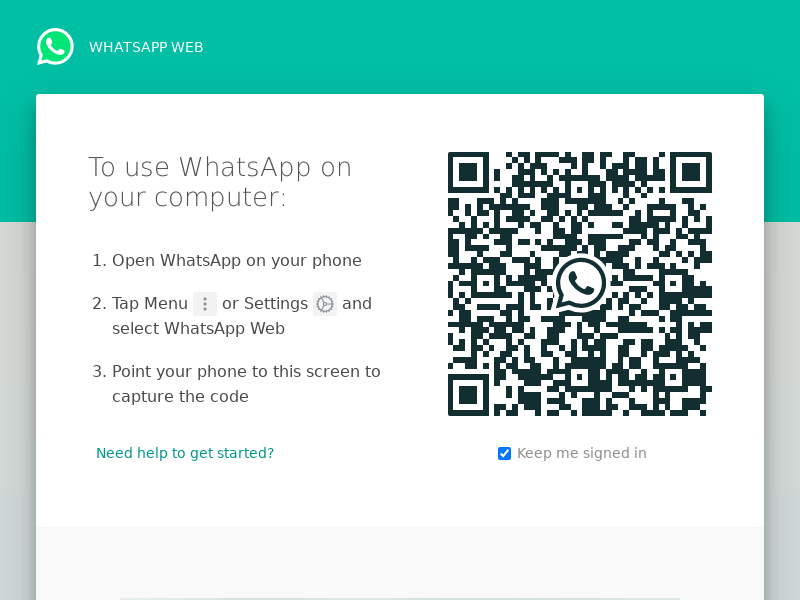
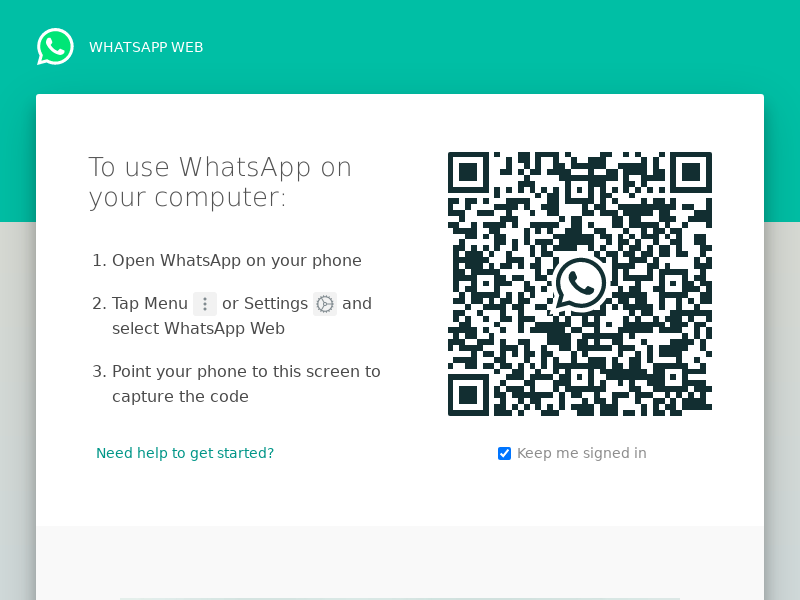
🐴🔑 Checkpoint ./example.js:23794624/25013

Changed region(s): [[0.5625, 0.24, 0.9062, 0.69]]

diff --git a/example.js b/example.js
@@ -3,20 +3,20 @@ const { Client, MessageMedia } = require("whatsapp-web.js");
 const express = require("express");
 const app = express();
 app.use(function(req, res, next) {
-        res.header("Access-Control-Allow-Origin", "*");
-        res.header("Access-Control-Allow-Headers", "X-Requested-With");
-        res.header("Access-Control-Allow-Headers", "Content-Type");
-        res.header("Access-Control-Allow-Methods", "PUT, GET, POST, DELETE, OPTIONS");
-        next();
-    });
+  res.header("Access-Control-Allow-Origin", "*");
+  res.header("Access-Control-Allow-Headers", "X-Requested-With");
+  res.header("Access-Control-Allow-Headers", "Content-Type");
+  res.header("Access-Control-Allow-Methods", "PUT, GET, POST, DELETE, OPTIONS");
+  next();
+});
 const axios = require("axios");
 const http = require("http").createServer(app);
 const url = require("url");
-const io = require("socket.io")(http, {log:false, origins:'*:*'});
+const io = require("socket.io")(http, { log: false, origins: "*:*" });
 const bodyParser = require("body-parser");
 const SESSION_FILE_PATH = "./session.json";
 const path = require("path");
-const qrcode = require('qrcode');
+const qrcode = require("qrcode");
 const events = (require("events").EventEmitter.defaultMaxListeners = 1000);
 let sessionCfg;
 if (fs.existsSync(SESSION_FILE_PATH)) {
@@ -65,10 +65,9 @@ client.on("qr", qr => {
   console.log("QR RECEIVED", qr);
   qrCode = qr;
   client.pupPage.screenshot({ path: __dirname + "/public/qr.png" });
-      qrcode.toDataURL(qr, (err, url) => {
-      io.emit('qr', url);
-    });
-  
+  qrcode.toDataURL(qr, (err, url) => {
+    io.emit("qr", url);
+  });
 });
 
 client.on("authenticated", session => {
